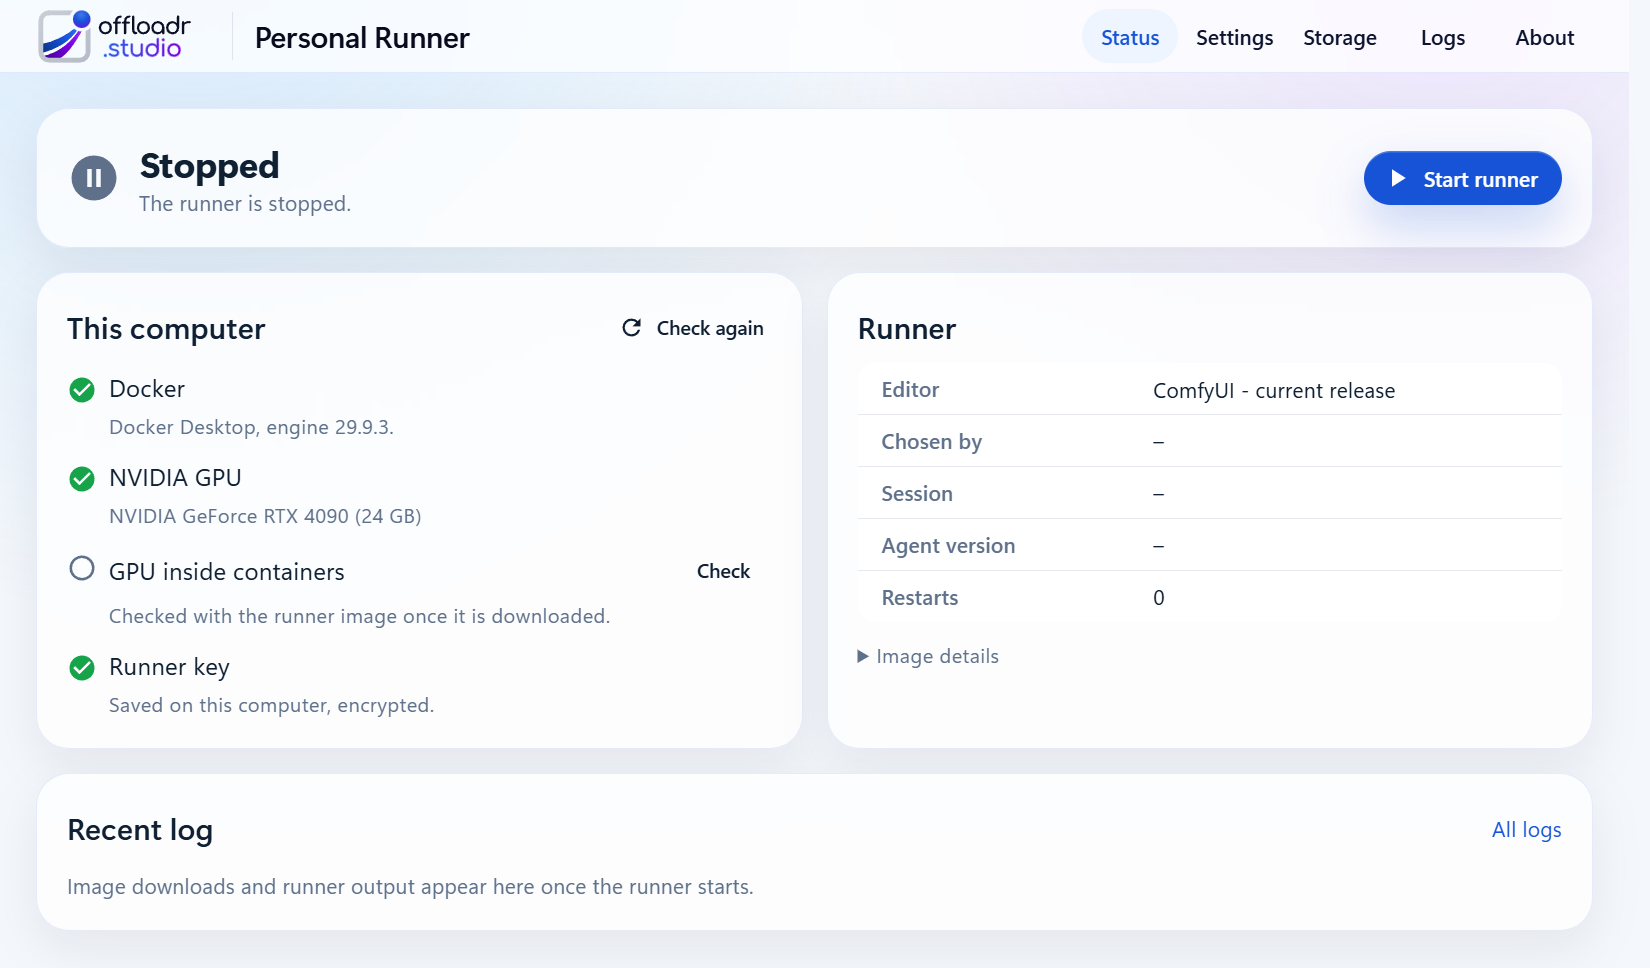
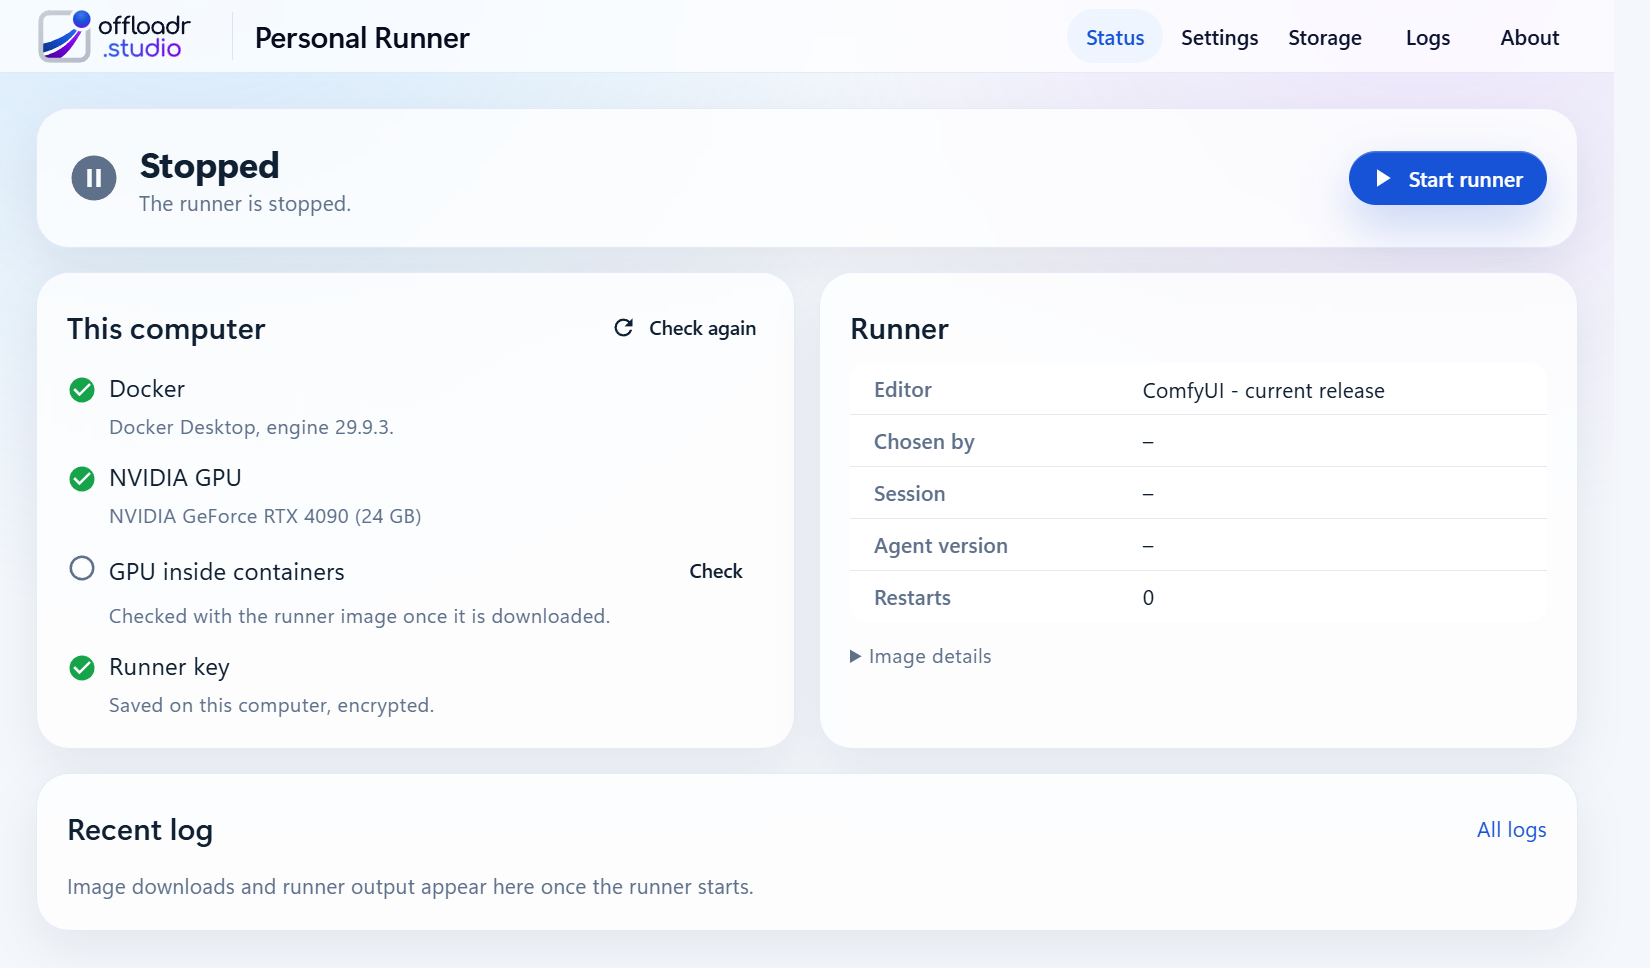
Lay Setup out in two columns, as wide as the other pages
Setup had a narrower width of its own; it now fits the window. Every page
keeps room for the scrollbar, so content does not shift between short
and long pages.

diff --git a/src/Offloadr.Runner.UI/wwwroot/runner.css b/src/Offloadr.Runner.UI/wwwroot/runner.css
@@ -99,11 +99,6 @@
     border-color: transparent;
 }
 
-.runner-setup {
-    max-width: 52rem;
-    margin: 0 auto;
-}
-
 /* Read by screen readers, not shown: the state an icon or colour stands for. */
 .runner-visually-hidden {
     position: absolute;
@@ -121,4 +116,9 @@
     width: 48px;
     height: 48px;
     display: block;
+}
+
+/* Room for the scrollbar on every page, so content keeps its width between a short page and a long one. */
+html {
+    scrollbar-gutter: stable;
 }
